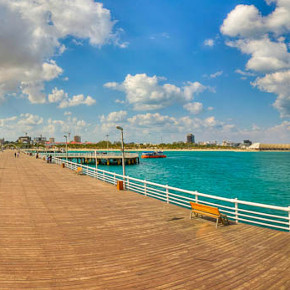
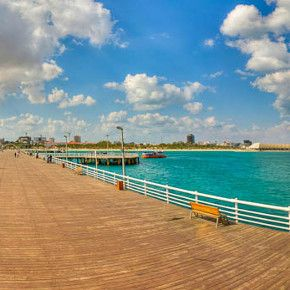
compress image and increase modal time out

diff --git a/app/models/suppliers/ghasedak-mobile_api.rb b/app/models/suppliers/ghasedak-mobile_api.rb
@@ -1,0 +1,109 @@
+=begin
+class Suppliers::Ghasedak_mobile_api
+    require "uri"
+    require "rest-client"
+
+  def search(origin,destination,date,search_history_id)
+      if Rails.env.test?
+        response = File.read("test/fixtures/files/domestic-ghasedak.log") 
+        return {response: response}
+      end
+
+      begin
+        #api_url = "https://ghasedak24.com/oob/thirdparty/search"
+        #date = date.to_date.to_parsi.to_s.gsub("-","/")  
+        #api_params = {'from' => "#{origin.upcase}", 'to' => "#{destination.upcase}", 'date' => "#{date}", 'number'=>'1','Oauth-Token'=>"89541f96-79d7-11e7-8fc9-000c29ff45b7"}
+        #api_response = RestClient::Request.execute(method: :post, url: "#{URI.parse(url)}",headers: {:'Oauth-Token'=> "955db966-79da-11e7-9ac5-000c29ff45b7"}, proxy: nil,payload: params)
+
+        url = "https://ghasedak24.com/api/GetAllFlights/?"
+        date = date.to_date.to_s.gsub("-","/")  
+        params = "from=#{origin.upcase}&to=#{destination.upcase}&fromDate=#{date}&toDate=#{date}&userName=sepehr&password=1234&cs=1"
+        SearchHistory.append_status(search_history_id,"R1(#{Time.now.strftime('%M:%S')})")
+        response = RestClient::Request.execute(method: :get, url: "#{URI.parse(url+params)}", proxy: nil,payload: params)
+      rescue => e
+        SearchHistory.append_status(search_history_id,"failed:(#{Time.now.strftime('%M:%S')}) #{e.message}")
+        return {status:false}
+      end
+      return {status:true,response: response.body}
+    end
+
+
+    def import_domestic_flights(response,route_id,origin,destination,date,search_history_id)
+      
+      flight_prices = Array.new()
+      json_response = JSON.parse(response[:response])
+      SearchHistory.append_status(search_history_id,"Extracting(#{Time.now.strftime('%M:%S')})")
+      
+      json_response["data"].each do |flight|
+                
+        #airline_code = get_airline_code(flight["airline_id"])
+        #next if airline_code.nil?
+
+        airline_code = get_airline_code(flight["airline_id"])
+        flight_number = airline_code+flight["flight_no"]
+        departure_time = Time.at(flight["date"].to_f).to_time #+ ENV["IRAN_ADDITIONAL_TIMEZONE"].to_f.minutes
+        departure_time = departure_time.to_s[0..18]
+        airplane_type = flight["aircraft"]
+
+        flight_id = Flight.create_or_find_flight(route_id,flight_number,departure_time,airline_code,airplane_type)
+      
+        price = flight["price"]
+        deeplink_url = "http://ghasedak24.com/flight/"+flight["ticket_id"]
+        
+        #to prevent duplicate flight prices we compare flight prices before insert into database
+        flight_price_so_far = flight_prices.select {|flight_price| flight_price.flight_id == flight_id}
+        unless flight_price_so_far.empty? #check to see a flight price for given flight is exists
+          if flight_price_so_far.first.price.to_i <= price.to_i #saved price is cheaper or equal to new price so we dont touch it
+            next
+          else
+            flight_price_so_far.first.price = price #new price is cheaper, so update the old price and go to next price
+            flight_price_so_far.first.deep_link = deeplink_url
+            next
+          end
+        end
+
+        flight_prices << FlightPrice.new(flight_id: "#{flight_id}", price: "#{price}", supplier:"ghasedak24", flight_date:"#{date}", deep_link:"#{deeplink_url}" )
+
+      end #end of each loop
+      
+      unless flight_prices.empty?
+        SearchHistory.append_status(search_history_id,"Deleting(#{Time.now.strftime('%M:%S')})")
+        #first we should remove the old flight price archive 
+        FlightPrice.delete_old_flight_prices("ghasedak24",route_id,date) 
+        SearchHistory.append_status(search_history_id,"Importing(#{Time.now.strftime('%M:%S')})")
+        #then bulk import enabled by a bulk import gem
+        FlightPrice.import flight_prices
+        SearchHistory.append_status(search_history_id,"Archive(#{Time.now.strftime('%M:%S')})") 
+        FlightPriceArchive.import flight_prices
+        SearchHistory.append_status(search_history_id,"Success(#{Time.now.strftime('%M:%S')})")
+      else
+        SearchHistory.append_status(search_history_id,"empty response(#{Time.now.strftime('%M:%S')})")
+      end
+
+
+  end
+
+  def get_airline_code(id)
+    airlines ={"2"=>"W5",
+		    "31"=>"AK", 
+			"11"=>"B9", 
+			"10"=>"I3", 
+			"1572"=>"JI", 
+      "1573"=>"IV", 
+      "5"=>"IV", 
+			"34"=>"NV", 
+			"1582"=>"SE", 
+			"9"=>"ZV",
+			"1"=>"HH",
+			"30"=>"QB",
+			"3"=>"Y9",
+			"29"=>"EP",
+			"4"=>"IR",
+			"1583"=>"SR"
+		}
+	airlines[id].nil? ? nil : airlines[id]
+  end
+
+
+end
+=end
